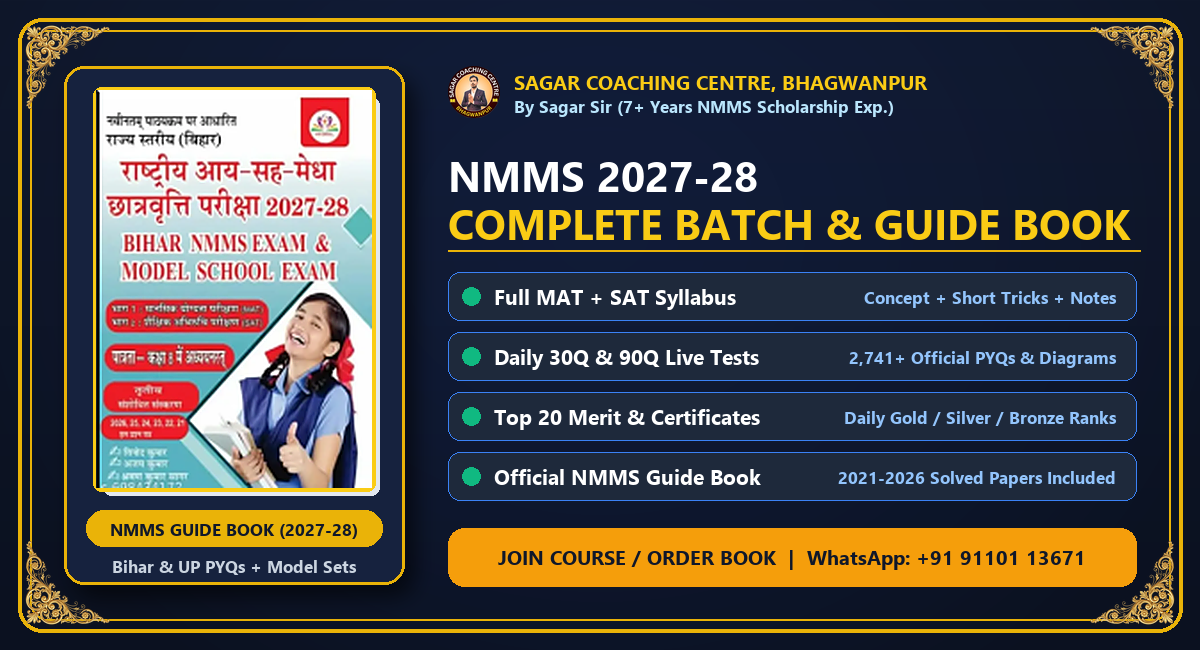
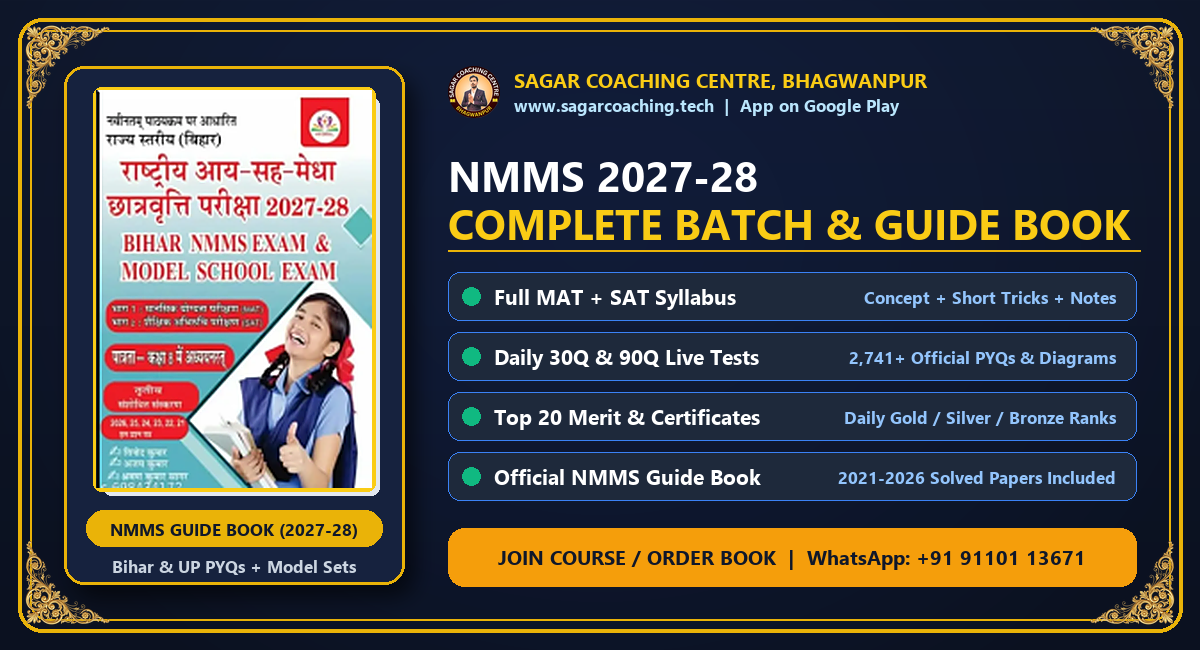
Add official Coaching App, Website & social buttons to Free Demo promo card

Changed region(s): [[0.4317, 0.0923, 0.7708, 0.1846]]

diff --git a/bot.py b/bot.py
@@ -691,9 +691,23 @@ async def finish_group_quiz(chat_id: int, context: ContextTypes.DEFAULT_TYPE):
     if session.get("is_free_promo"):
         wa_course = "https://wa.me/919110113671?text=" + quote("नमस्ते सर, मुझे NMMS 2027-28 पूरा कोर्स जॉइन करना है। कृपया बैच और फीस की जानकारी दें।")
         wa_book = "https://wa.me/919110113671?text=" + quote("नमस्ते सर, मुझे आपके द्वारा लिखी NMMS स्पेशल गाइड बुक खरीदनी है। कृपया जानकारी दें।")
+        app_url = "https://play.google.com/store/apps/details?id=com.lct.pbxwdta"
+        web_url = "https://www.sagarcoaching.tech/"
+        wa_chan_url = "https://www.whatsapp.com/channel/0029Va5PJaVGE56lMwsSzs0g"
+        insta_url = "https://www.instagram.com/sagarcoachingcentrebhagwanpur/"
+        fb_url = "https://www.facebook.com/SagarCoachingCentreBhagwanpur59"
         promo_markup = InlineKeyboardMarkup([
             [InlineKeyboardButton("🎓 NMMS पूरा कोर्स जॉइन करें (WhatsApp)", url=wa_course)],
-            [InlineKeyboardButton("📖 NMMS स्पेशल गाइड बुक मँगवाएँ (WhatsApp)", url=wa_book)],
+            [InlineKeyboardButton("📖 NMMS गाइड बुक मँगवाएँ (WhatsApp)", url=wa_book)],
+            [
+                InlineKeyboardButton("📱 हमारा App डाउनलोड करें", url=app_url),
+                InlineKeyboardButton("🌐 Website देखें", url=web_url),
+            ],
+            [
+                InlineKeyboardButton("📢 WA Channel", url=wa_chan_url),
+                InlineKeyboardButton("📸 Instagram", url=insta_url),
+                InlineKeyboardButton("📘 Facebook", url=fb_url),
+            ],
         ])
         promo_caption = (
             "🏛 *SAGAR COACHING CENTRE, BHAGWANPUR*\n"
@@ -703,7 +717,8 @@ async def finish_group_quiz(chat_id: int, context: ContextTypes.DEFAULT_TYPE):
             "✅ रोज़ाना *30Q स्पेशल + 90Q फुल मॉक टेस्ट* (2,741+ PYQs)\n"
             "✅ रोज़ *Top 20 Merit Card* व विजेताओं को *Gold/Silver/Bronze Certificate* 🏆\n"
             "✅ *2021–2026 हल पेपर सहित मेरी अपनी लिखी गाइड बुक*\n\n"
-            "👇 *कोर्स जॉइन करने या किताब मँगवाने के लिए नीचे बटन दबाएँ:*\n"
+            "🌐 *www.sagarcoaching.tech* | 📱 App Google Play पर उपलब्ध\n"
+            "👇 *कोर्स, किताब और हमारे ऑफिशियल चैनल से जुड़ने के लिए बटन दबाएँ:*\n"
             "📞 WhatsApp / कॉल: +91 91101 13671"
         )
         try:
